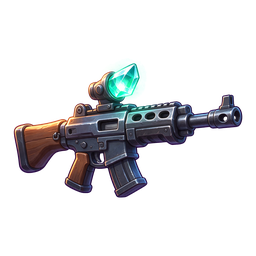
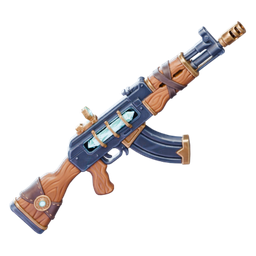
Prises façon jeux de tir (avant-bras gauche en diagonale, pistolet à deux mains, Zeus à une main), calage des doigts par contact avec l'arme, poignet limité, bras synchronisés avec l'arme ; icônes d'armes rendues depuis les modèles ; barres de vie plus petites / au milieu des murs
Claude-Session: https://claude.ai/code/session_01UHcuUBiAhKDJ6rWdM9YWwk

Changed region(s): [[0.0312, 0.0625, 0.9688, 0.9375]]

diff --git a/game/tools/blender/render_weapon_icons.py b/game/tools/blender/render_weapon_icons.py
@@ -1,0 +1,63 @@
+"""Icônes d'inventaire des armes rendues depuis les modèles du jeu (Cycles, fond transparent,
+vue de trois quarts, éclairage clé + contre-jour + liseré), 512 px puis réduites à 256.
+Usage : python3 render_weapon_icons.py <dossier armes> <dossier ui>"""
+import sys, os, math
+import bpy
+from mathutils import Vector
+
+src, out = sys.argv[1], sys.argv[2]
+for name in ["pistol", "rifle", "cryo", "shock", "sniper", "zeus", "axe"]:
+    bpy.ops.wm.read_factory_settings(use_empty=True)
+    bpy.ops.import_scene.gltf(filepath=os.path.join(src, name + ".glb"))
+    meshes = [o for o in bpy.data.objects if o.type == "MESH"]
+    for o in bpy.data.objects:
+        if o.type == "EMPTY" and o.name in ("muzzle", "sight", "hand_r", "hand_l"):
+            o.hide_render = True
+    pts = [o.matrix_world @ v.co for o in meshes for v in o.data.vertices]
+    mn = Vector((min(p.x for p in pts), min(p.y for p in pts), min(p.z for p in pts)))
+    mx = Vector((max(p.x for p in pts), max(p.y for p in pts), max(p.z for p in pts)))
+    c = (mn + mx) / 2
+    size = max((mx - mn).x, (mx - mn).z, (mx - mn).y)
+    sc = bpy.context.scene
+    sc.render.engine = "CYCLES"
+    sc.cycles.device = "CPU"
+    sc.cycles.samples = 64
+    sc.cycles.use_denoising = True
+    sc.render.resolution_x = sc.render.resolution_y = 512
+    sc.render.film_transparent = True
+    sc.view_settings.view_transform = "AgX"
+    sc.view_settings.look = "AgX - Medium High Contrast"
+    w = bpy.data.worlds.new("w")
+    sc.world = w
+    w.use_nodes = True
+    w.node_tree.nodes["Background"].inputs["Color"].default_value = (0.35, 0.33, 0.5, 1)
+    w.node_tree.nodes["Background"].inputs["Strength"].default_value = 0.6
+    cd = bpy.data.cameras.new("c")
+    cd.type = "ORTHO"
+    cam = bpy.data.objects.new("c", cd)
+    sc.collection.objects.link(cam)
+    # arme : X = avant. Vue de trois quarts : un peu de côté (-Y), un peu au-dessus ; canon vers la droite
+    d = Vector((0.25, -1.0, 0.32)).normalized() if name != "axe" else Vector((0.0, -1.0, 0.15)).normalized()
+    cam.location = c + d * size * 3
+    cam.rotation_euler = (-d).to_track_quat("-Z", "Z").to_euler()
+    if name != "axe":
+        # canon incliné vers le haut à droite (diagonale de l'icône)
+        cam.rotation_euler.rotate_axis("Z", math.radians(-28))
+    cd.ortho_scale = size * (1.08 if name != "axe" else 1.02)
+    sc.camera = cam
+
+    def light(kind, rot, energy, color, size=1.0):
+        ld = bpy.data.lights.new(kind, "AREA")
+        ld.energy = energy
+        ld.color = color
+        ld.size = size * 3
+        o = bpy.data.objects.new(kind, ld)
+        sc.collection.objects.link(o)
+        o.location = c + rot * size * 3
+        o.rotation_euler = (-rot).to_track_quat("-Z", "Y").to_euler()
+    light("key", Vector((0.6, -0.8, 0.9)).normalized(), 300 * size * size, (1.0, 0.92, 0.82), size)
+    light("rim", Vector((-0.5, 0.9, 0.5)).normalized(), 500 * size * size, (0.55, 0.75, 1.0), size)
+    light("fill", Vector((-0.8, -0.6, -0.2)).normalized(), 80 * size * size, (0.8, 0.6, 1.0), size)
+    sc.render.filepath = os.path.join(out, "w_%s_512.png" % name)
+    bpy.ops.render.render(write_still=True)
+    print("rendu", name)

diff --git a/RECAP_PROJET.md b/RECAP_PROJET.md
@@ -169,3 +169,5 @@ assets/                modèles 3D CC0 : nature (Quaternius), skeletons, chests,
 - Prises des mains (fp_arms.GRIPS) : écart paume-poignée par prise (« half »), index presque tendu sur la gâchette, main d'appui moins refermée pour ne pas traverser le garde-main.
 - Modèles blancs sous Godot 4.7 (vraie cause, reproduite avec Godot 4.7.2) : libjpeg-turbo de Godot 4.7 refuse les JPEG écrits par Blender avec des balises de métadonnées (APP1 « NeoGeo », profil ICC, commentaires) ; les .glb se chargeaient sans texture et l'émission blanche ×3 rendait tout blanc. tools/clean_glb_jpeg.py retire ces balises (sans réencoder) dans les .glb et les .jpg extraits : à relancer après chaque export Blender.
 - Bras FPS : direction des doigts explicite par main (main d'appui en travers sous le garde-main, poing de hache) au lieu de la déduire de l'avant-bras ; bras recalés juste avant le rendu (RenderingServer.frame_pre_draw), après recul/balancement/coup de hache : plus d'image de retard entre l'arme et les mains. Canon de Zeus agrandi (0,62 -> 0,85). Coup de hache moins ample (hache presque verticale, avant-bras horizontal), hache remontée de 9 cm.
+- Prises façon jeux de tir (références CoD) : arme longue en diagonale, main droite presque cachée en bas à droite, avant-bras gauche long qui traverse l'écran jusqu'au flanc gauche du garde-main ; pistolet au centre à deux mains ; Zeus à une main. Calage automatique sur le modèle de l'arme (fp_arms.fit) : paume posée sur la surface réelle, chaque doigt se ferme jusqu'au contact (test des phalanges et de leur épaisseur contre les triangles de l'arme), poignet limité à 38° de flexion. Squelette mis à jour dans la même image que l'arme (NOTIFICATION_UPDATE_SKELETON juste avant le rendu). Mains 8 % plus petites.
+- Icônes d'armes de l'inventaire rendues depuis les modèles 3D (tools/blender/render_weapon_icons.py). Barre de vie du monstre visé plus petite ; barre d'une construction au milieu de la pièce visée.
